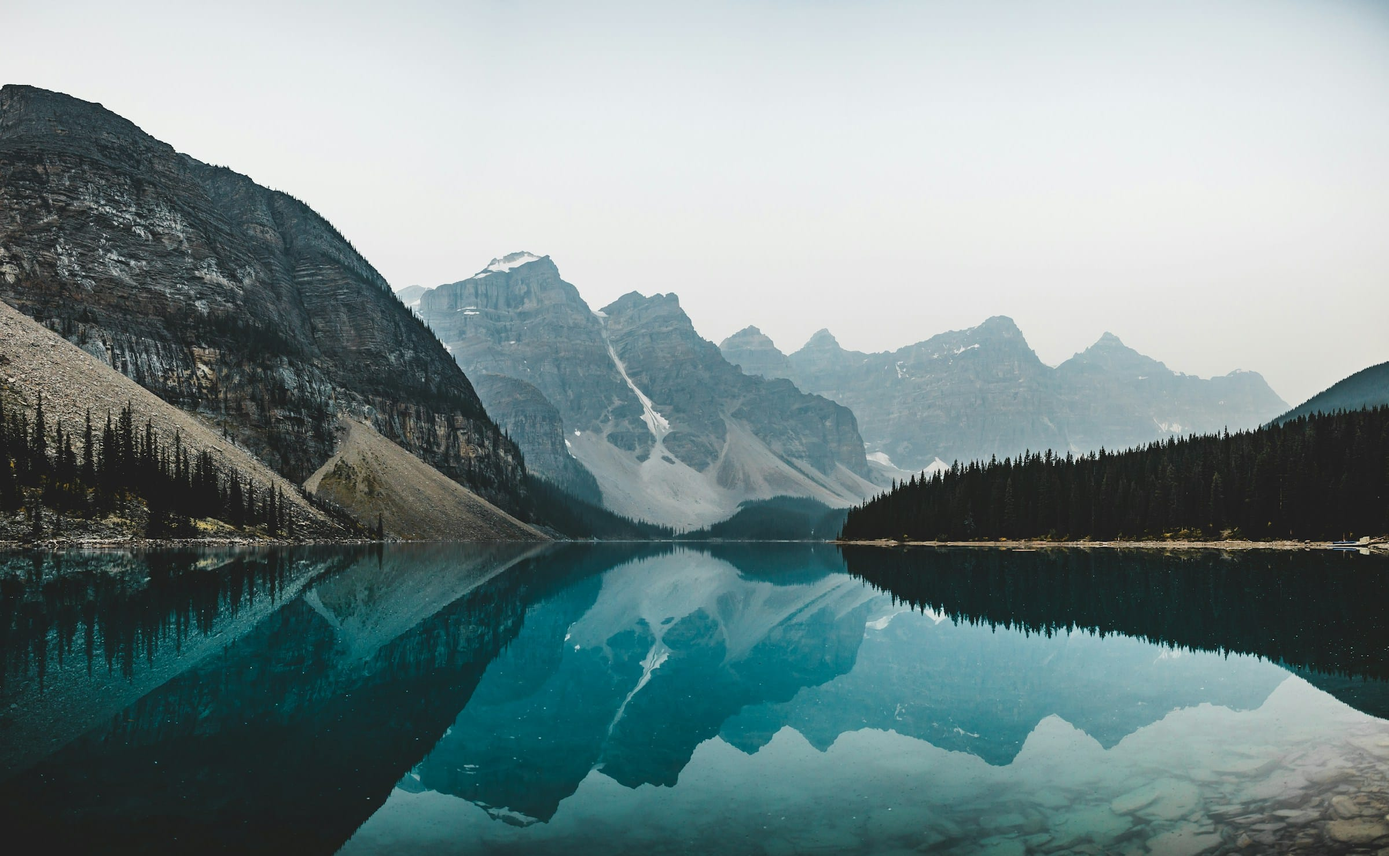
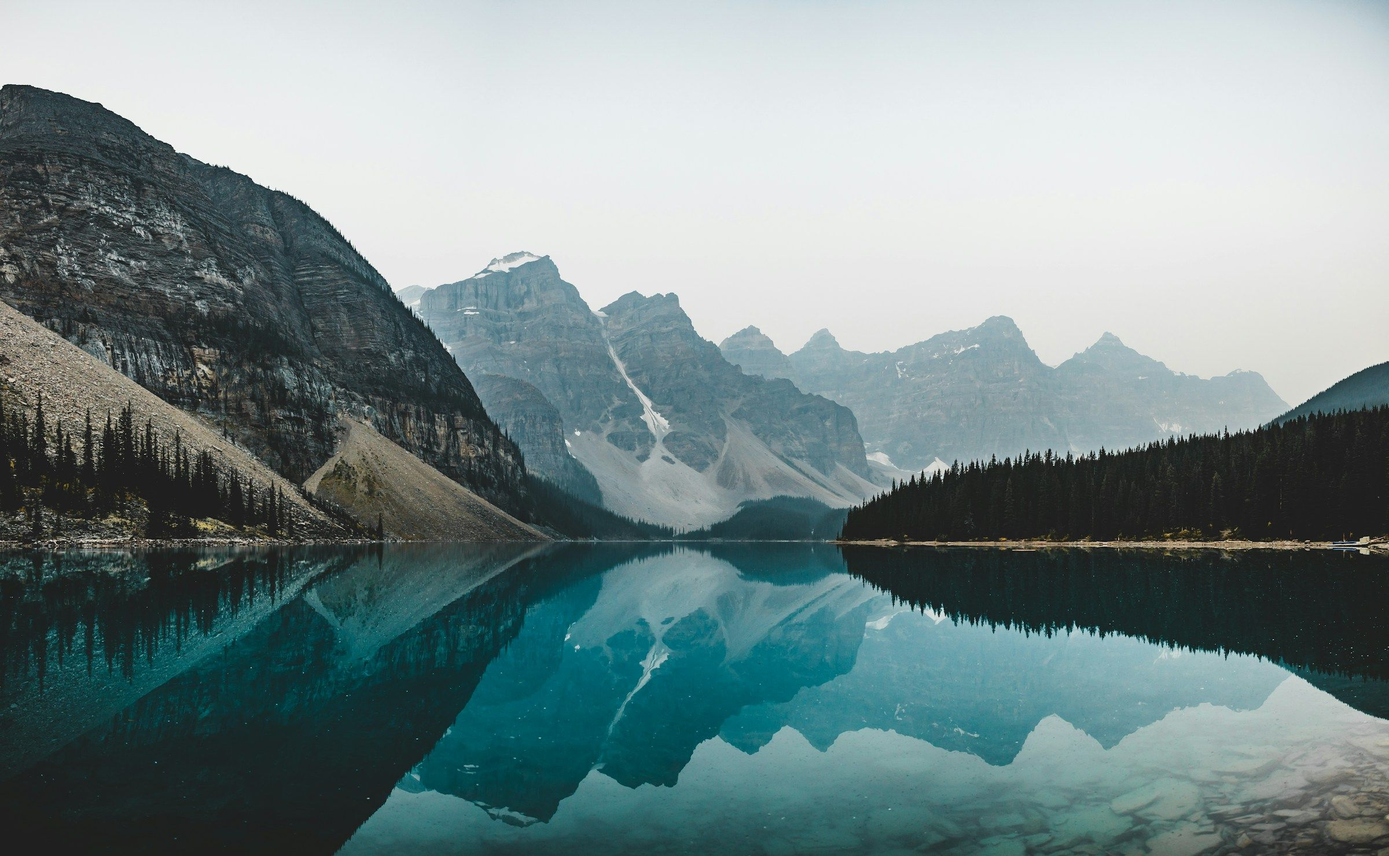
jpg 인코딩 방법 수정, 일부 단호한 표현 수정

diff --git a/index.html b/index.html
@@ -6,7 +6,7 @@
     <title>이미지 최적화 데모</title>
     <meta
       name="description"
-      content="같은 이미지를 포맷·해상도별로 비교하며 웹 이미지 최적화의 핵심을 체감합니다."
+      content="같은 이미지를 포맷·해상도별로 비교하며 웹 이미지 최적화의 효과를 살펴봅니다."
     />
     <link rel="stylesheet" href="style.css" />
   </head>
@@ -36,14 +36,14 @@
         </p>
         <p class="quality-note">
           <strong>인코딩 품질:</strong>
-          JPG <code>quality 80</code> (mozjpeg) ·
+          JPG <code>quality 80</code> (libjpeg, 표준 인코더) ·
           WebP <code>quality 80</code> ·
           AVIF <code>quality 50</code>
           <span class="quality-help">
-            ※ 품질 수치는 포맷마다 알고리즘이 달라 직접 비교는 무의미합니다.
-            WebP/AVIF는 같은 수치에서 JPG보다 더 작으면서 더 깨끗합니다.
-            WebP는 75~85가 일반적인 권장 범위(Google), AVIF는 50 전후가
-            "시각적 손실 없음"의 기준선입니다.
+            ※ 품질 수치는 포맷마다 알고리즘이 달라 같은 숫자라도 시각적
+            품질이 똑같지는 않습니다. 일반적으로 WebP q80은 시각적 손실이
+            거의 없는 수준, AVIF q50은 "JPG q80과 시각적으로 비슷하면서
+            훨씬 작은" 정도로 알려져 있습니다.
           </span>
         </p>
         <div class="grid grid-3">
@@ -78,11 +78,11 @@
             </li>
             <li>
               <strong>WebP</strong>: 지원 범위 넓음(IE 제외 사실상 전부).
-              현재 가장 안전한 기본값.
+              현재 자주 쓰이는 기본값입니다.
             </li>
             <li>
               <strong>JPG</strong>: 폴백(fallback)용. <code>&lt;picture&gt;</code>
-              로 함께 제공하면 자동 선택됩니다.
+              로 함께 제공하면 브라우저가 지원 여부에 따라 골라 받습니다.
             </li>
           </ul>
           <pre><code>&lt;picture&gt;
@@ -103,7 +103,7 @@
           <code>devicePixelRatio = <strong id="dpr-inline">-</strong></code>
           기준으로 보면, 800px CSS 슬롯의 실제 픽셀 폭은
           <strong id="phys-width">-</strong>px 입니다.
-          이 픽셀 수를 채우지 못하는 이미지는 흐릿해 보입니다.
+          이 픽셀 수에 못 미치는 이미지는 흐릿하게 보일 수 있습니다.
         </p>
         <div class="resolution-stack">
           <figure
@@ -116,8 +116,8 @@
               <span class="tag">800w · 1x</span>
               <span class="meta" data-meta>측정 중…</span>
               <span class="caption-note" data-fit="800">
-                DPR 1에서는 또렷, DPR 2 이상에서는 보간되어
-                <strong>흐릿</strong>합니다.
+                DPR 1에서는 또렷하지만, DPR 2 이상에서는 보간되어
+                <strong>흐릿하게</strong> 보일 수 있습니다.
               </span>
             </figcaption>
           </figure>
@@ -131,7 +131,8 @@
               <span class="tag tag-good">1600w · 2x ✓ 권장</span>
               <span class="meta" data-meta>측정 중…</span>
               <span class="caption-note" data-fit="1600">
-                DPR 2까지 또렷. 대부분의 노트북·휴대폰에서 최적입니다.
+                DPR 2까지 또렷합니다. 대부분의 노트북·휴대폰에서 무난하게
+                잘 맞는 선택입니다.
               </span>
             </figcaption>
           </figure>
@@ -146,9 +147,9 @@
               <span class="meta" data-meta>측정 중…</span>
               <span class="caption-note" data-fit="2400">
                 iPhone Pro/Pro Max, 갤럭시 S 시리즈 등 <strong>DPR 3</strong>
-                디바이스를 위한 옵션. 일반 사진은 2x와 시각 차이가
-                미미하지만, 브랜드 히어로·로고처럼 디테일이 중요한
-                이미지는 가치가 있습니다.
+                디바이스를 고려한 옵션입니다. 일반 사진은 2x와 시각 차이가
+                크지 않지만, 브랜드 히어로·로고처럼 디테일이 중요한
+                이미지에서는 도움이 될 수 있습니다.
               </span>
             </figcaption>
           </figure>
@@ -167,53 +168,54 @@
           <ul>
             <li>
               <strong>DPR 1</strong>: 일반 데스크톱 모니터, 저가형 노트북.
-              여전히 무시할 수 없는 비중 (특히 B2B).
+              아직도 적지 않은 비중을 차지합니다 (특히 B2B 환경).
             </li>
             <li>
               <strong>DPR 2</strong>: 맥북·아이맥, iPhone SE/일반 모델,
-              대부분의 안드로이드 중급기. <em>가장 큰 사용자 그룹.</em>
+              대부분의 안드로이드 중급기. <em>비중이 큰 사용자 그룹입니다.</em>
             </li>
             <li>
               <strong>DPR 3</strong>: iPhone Pro/Pro Max/Plus, 갤럭시 S/노트
-              플래그십. <em>모바일 트래픽이 많은 서비스라면 무시 못함.</em>
+              플래그십. <em>모바일 트래픽이 많다면 고려해볼 만합니다.</em>
             </li>
           </ul>
           <p>
-            <strong>3x까지 준비하는 게 가치 있는 경우</strong>
+            <strong>3x까지 준비하면 도움이 될 수 있는 경우</strong>
           </p>
           <ul>
             <li>
               <strong>모바일 사용자 비중이 높은 서비스</strong> — 커머스,
-              미디어, 소셜.
+              미디어, 소셜 등.
             </li>
             <li>
               <strong>디테일이 중요한 이미지</strong> — 브랜드 히어로 배너,
-              제품 컷, 로고/일러스트, 텍스트가 포함된 이미지.
+              제품 컷, 로고/일러스트, 텍스트가 포함된 이미지 등.
             </li>
             <li>
               <strong>첫 화면(Above the fold)의 LCP 이미지</strong> — 사용자
-              인상을 좌우하는 핵심 이미지.
+              첫 인상을 좌우하는 핵심 이미지.
             </li>
           </ul>
           <p>
-            <strong>3x가 과한 경우</strong>
+            <strong>3x가 과해질 수 있는 경우</strong>
           </p>
           <ul>
             <li>
-              본문 안의 일반 사진, 썸네일, 장식용 배경 이미지 — 2x로 충분.
+              본문 안의 일반 사진, 썸네일, 장식용 배경 이미지 — 보통 2x로
+              괜찮습니다.
             </li>
             <li>
               데이터 절약이 우선인 페이지 (느린 네트워크 대상).
             </li>
             <li>
               표시 크기 자체가 작은 경우 (예: 200px 폭 아바타) — 2x 기준
-              400w면 충분.
+              400w 정도여도 무리가 없습니다.
             </li>
           </ul>
           <p class="hint" style="margin-top: 12px;">
-            💡 <strong>안전한 기본 전략</strong>: <code>srcset</code>에 1x,
-            2x, 3x를 모두 등록하고 <code>sizes</code>로 표시 크기를
-            알려주면, 브라우저가 디바이스 DPR과 네트워크 상태를 종합해
+            💡 <strong>참고로</strong>: <code>srcset</code>에 1x, 2x, 3x를
+            모두 등록하고 <code>sizes</code>로 표시 크기를 알려주면,
+            브라우저가 디바이스 DPR과 네트워크 상태를 보고
             <em>가장 적합한 하나만</em> 다운로드합니다. 3x를 추가해도 DPR 2
             사용자는 여전히 2x 파일만 받습니다.
           </p>
@@ -235,7 +237,7 @@
 /&gt;</code></pre>
           <p>
             이 페이지에서는 비교 시연을 위해 일부러 고정 소스를 사용했지만,
-            <strong>실제 서비스에서는 위 패턴이 정답</strong>입니다.
+            실제 서비스에서는 <strong>위 패턴을 권장</strong>합니다.
           </p>
         </details>
       </section>
@@ -245,7 +247,7 @@
         <p class="desc">
           모든 변형을 동시에 새로 받아와 다운로드 시간과 용량을 표시합니다.
           개발자도구 <em>Network</em> 탭에서 <strong>Slow 4G</strong>로
-          throttling을 걸어 다시 측정해보면 차이가 더 극적으로 드러납니다.
+          throttling을 걸어 다시 측정해보면 차이가 더 분명해집니다.
         </p>
         <div class="results">
           <table id="results-table">
@@ -270,26 +272,27 @@
       </section>
 
       <section id="summary">
-        <h2>핵심 요약</h2>
+        <h2>정리</h2>
         <ol>
           <li>
-            <strong>포맷</strong>: WebP/AVIF가 같은 화질에서 30~70% 더
-            가볍습니다. <code>&lt;picture&gt;</code>로 폴백을 함께
-            제공하세요.
+            <strong>포맷</strong>: WebP/AVIF는 같은 수준의 화질에서 JPG보다
+            30~65% 정도 작을 수 있습니다. <code>&lt;picture&gt;</code>로
+            폴백을 함께 제공하면 좋습니다.
           </li>
           <li>
-            <strong>해상도</strong>: 표시 크기의 2배(보통 2x)를 기준으로
-            준비하고, <code>srcset</code>으로 디바이스가 알아서 고르게
-            합니다. 3x는 보통 과합니다.
+            <strong>해상도</strong>: 표시 크기의 2배(2x) 정도를 기준으로
+            준비하고, <code>srcset</code>으로 디바이스가 적절한 것을 고르게
+            하는 패턴이 일반적입니다. 3x까지 갈지는 서비스 성격에 따라
+            검토해볼 수 있습니다.
           </li>
           <li>
-            <strong>용량 = 시간</strong>: 모바일·해외 사용자에게는 100KB
-            차이도 체감됩니다. LCP 점수에 직결됩니다.
+            <strong>용량 = 시간</strong>: 모바일·해외 사용자 환경에서는
+            100KB 차이도 체감될 수 있고, LCP 점수에도 영향을 줍니다.
           </li>
           <li>
-            <strong>지연 로딩</strong>: 화면 밖 이미지는
-            <code>loading="lazy"</code>로. 첫 화면(LCP) 이미지는
-            <code>fetchpriority="high"</code>로.
+            <strong>지연 로딩</strong>: 화면 밖 이미지에는
+            <code>loading="lazy"</code>를, 첫 화면(LCP) 이미지에는
+            <code>fetchpriority="high"</code>를 검토해보세요.
           </li>
         </ol>
       </section>

diff --git a/scripts/build-images.js b/scripts/build-images.js
@@ -16,7 +16,7 @@ async function main() {
   for (const w of WIDTHS) {
     const base = sharp(buf).resize({ width: w, withoutEnlargement: true });
     tasks.push(
-      base.clone().jpeg({ quality: QUALITY.jpg, mozjpeg: true })
+      base.clone().jpeg({ quality: QUALITY.jpg, mozjpeg: false })
         .toFile(path.join(OUT, `${w}w.jpg`)),
       base.clone().webp({ quality: QUALITY.webp })
         .toFile(path.join(OUT, `${w}w.webp`)),

diff --git a/README.md b/README.md
@@ -59,14 +59,19 @@ image-optimize/
 
 ## 측정 결과 (참고)
 
+JPG는 표준 libjpeg(quality 80), WebP는 quality 80, AVIF는 quality 50으로
+인코딩한 결과입니다.
+
 | 변형 | 용량 | 원본 대비 |
 |---|---:|---:|
 | original.jpg (2400w) | 530.0 KB | 100% |
-| 2400w.jpg | 293.3 KB | 55% |
+| 2400w.jpg | 447.0 KB | 84% |
 | 2400w.webp | 266.4 KB | 50% |
 | 2400w.avif | **152.7 KB** | **29%** |
+| 1600w.jpg | 178.4 KB | 34% |
 | 1600w.webp | 125.3 KB | 24% |
 | 800w.webp | 34.1 KB | 6% |
 
-같은 화질을 유지하면서 AVIF는 원본 대비 약 **70% 절감**, 표시 크기에 맞는
-해상도(2x 기준 1600w)와 결합하면 **76% 절감**까지 가능합니다.
+비슷한 시각 품질에서 WebP는 JPG 대비 약 **30~40% 작게**, AVIF는
+**60~65% 작게** 나오는 경향이 있습니다. 표시 크기에 맞는 해상도와
+결합하면 절감 폭은 더 커집니다.
